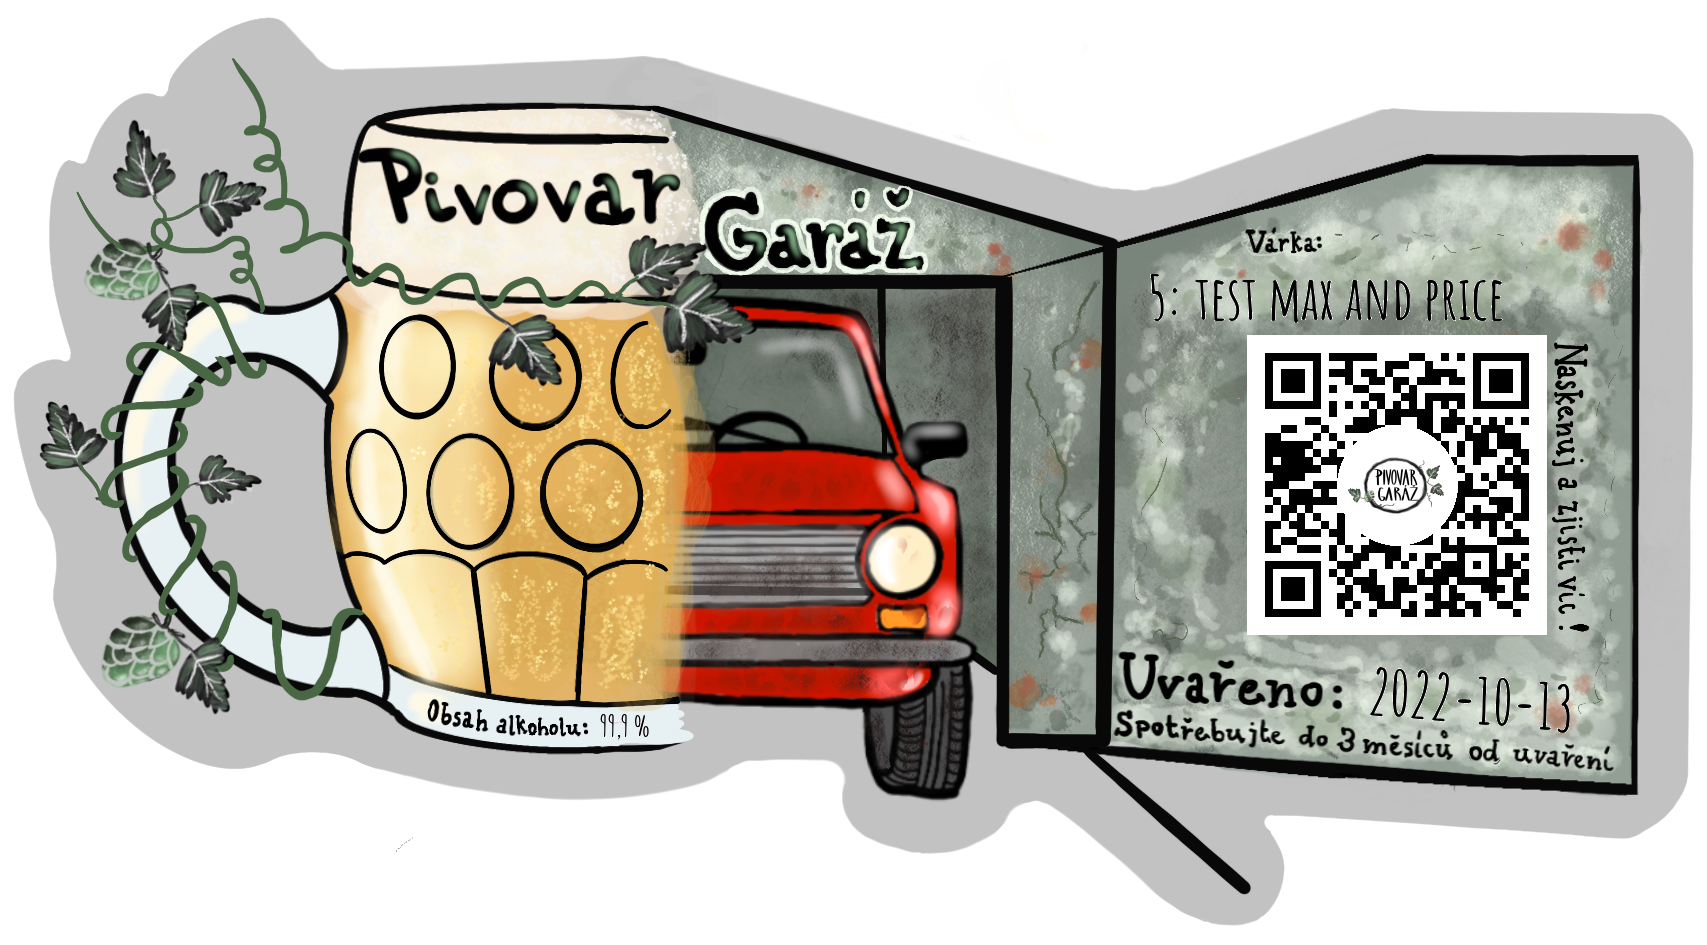
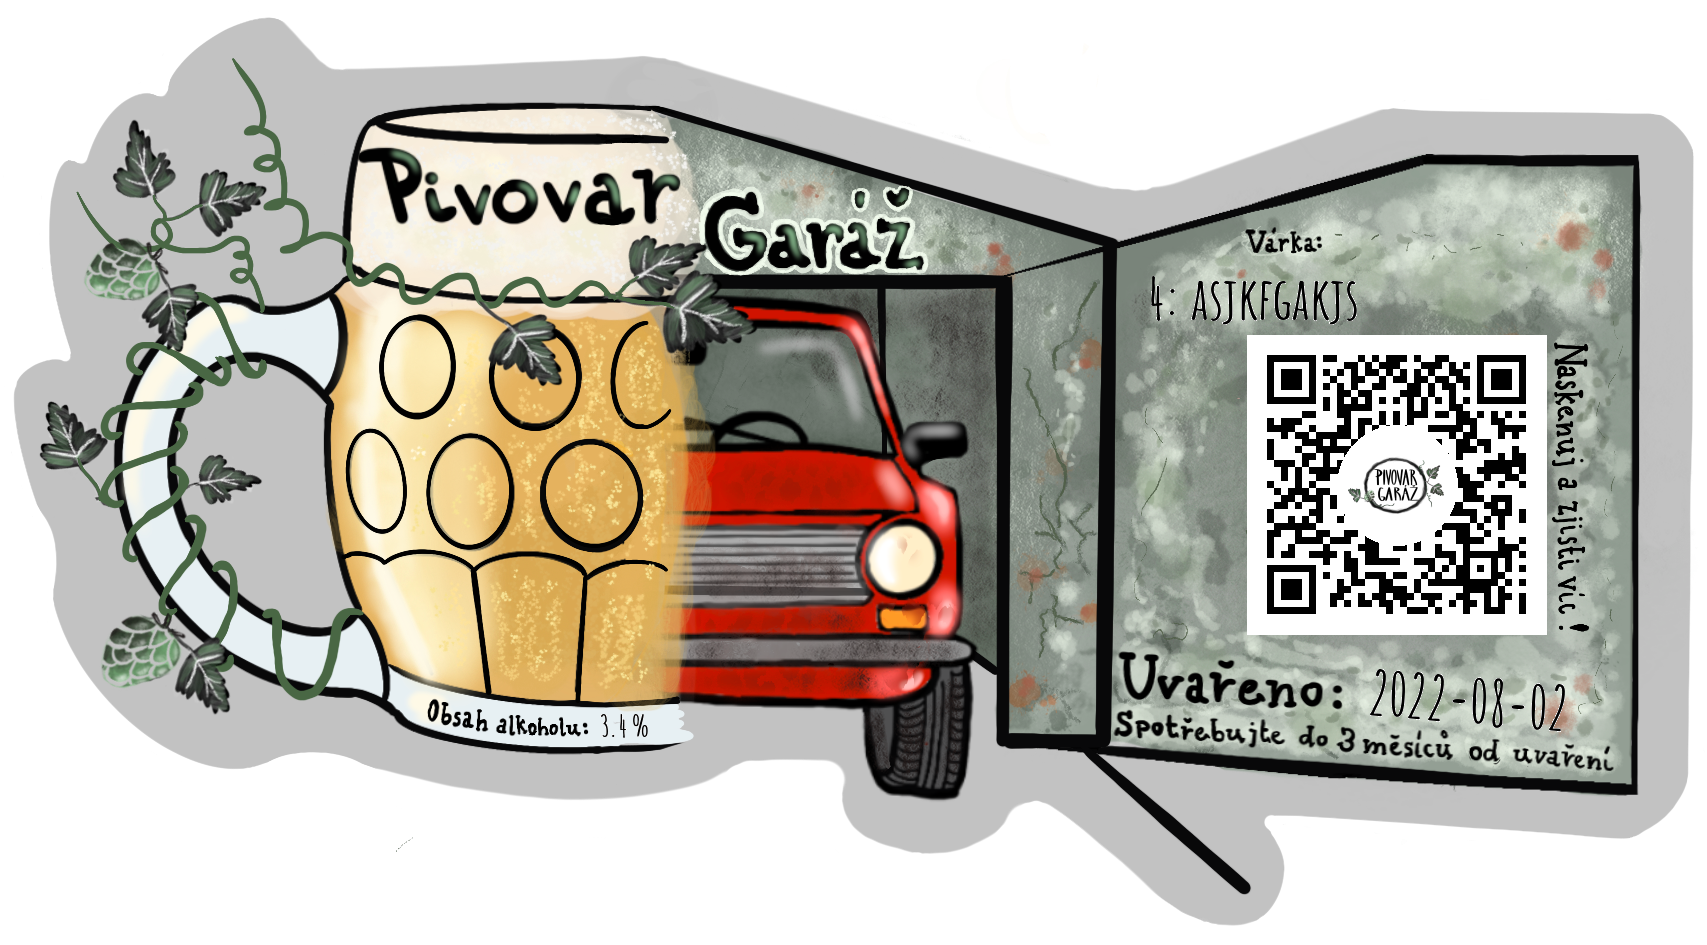
qr module #30

diff --git a/garage/qr/formQr.php b/garage/qr/formQr.php
@@ -24,11 +24,11 @@ if (!isset($_SESSION["currentUser"]) || !$_SESSION["currentUser"]["employee"]) {
             <select class="form-select" id="batch" name="batch">
                 <option selected></option>
                 <?php
-                $stmt = $link->prepare("SELECT id, label, created FROM batch;");
+                $stmt = $link->prepare("SELECT id, label, created, alcohol FROM batch;");
                 $stmt->execute();
                 if ($result = $stmt->get_result()) {
                     while ($row = $result->fetch_assoc()) {
-                        echo "<option value='" . $row["id"] . "' data-created='" . $row["created"] . "'>" . $row["label"] . "</option>";
+                        echo "<option value='" . $row["id"] . "' data-created='" . $row["created"] . "' data-alc=" . $row["alcohol"] . ">" . $row["label"] . "</option>";
                     }
                 }
                 ?>
@@ -47,6 +47,10 @@ if (!isset($_SESSION["currentUser"]) || !$_SESSION["currentUser"]["employee"]) {
             <input type="date" class="form-control" readonly id="created" name="created">
             <label for="created" class="form-label">Vytvořeno</label>
         </div>
+        <div class="form-floating mb-3">
+            <input type="text" class="form-control" readonly id="alc" name="alc">
+            <label for="alc" class="form-label">Podíl alkoholu</label>
+        </div>
         <button type="submit" class="btn btn-success"><i class="pe-2 bi bi-plus-circle"></i>Vytvořit etiketu</button>
     </form>
 </body>
@@ -59,6 +63,7 @@ if (!isset($_SESSION["currentUser"]) || !$_SESSION["currentUser"]["employee"]) {
             $("#label").val($(this).find(":selected").text());
             $("#id").val($(this).find(":selected").attr("value"));
             $("#created").val($(this).find(":selected").data("created"));
+            $("#alc").val($(this).find(":selected").data("alc") + " %");
         });
     });
 

diff --git a/garage/order/orderList.php b/garage/order/orderList.php
@@ -7,7 +7,7 @@ if (!isset($_SESSION["currentUser"]) || !$_SESSION["currentUser"]["employee"]) {
 
 $orders = [];
 $stmt = $link->prepare("SELECT bo.id, bo.thirds, bo.pints, bo.created, c.id AS customerId, c.mail, c.f_name, c.l_name, c.instagram, e.id AS empId, e.f_name AS empFName, e.l_name AS empLName,
-    b.id AS batchId, b.label, b.thirds AS batchThirds, b.pints AS batchPints, bs.label, bs.color, os.id AS statusOrderId, os.label AS statusOrderLabel, os.color AS statusOrderColor, b.third_price, b.pint_price
+    b.id AS batchId, b.label AS batchLabel, b.thirds AS batchThirds, b.pints AS batchPints, bs.label, bs.color, os.id AS statusOrderId, os.label AS statusOrderLabel, os.color AS statusOrderColor, b.third_price, b.pint_price
     FROM beer_order bo INNER JOIN user c ON bo.id_customer=c.id LEFT JOIN user e ON bo.id_employee=e.id INNER JOIN batch b ON bo.id_batch=b.id
     INNER JOIN status_batch bs ON b.id_status=bs.id INNER JOIN status_order os ON bo.id_status=os.id;");
 $stmt->execute();
@@ -29,7 +29,7 @@ if ($result = $stmt->get_result()) {
             ],
             "batch" => [
                 "id" => $row["batchId"],
-                "label" => $row["label"],
+                "label" => $row["batchLabel"],
                 "thirds" => $row["batchThirds"],
                 "pints" => $row["batchPints"],
                 "thirdPrice" => $row["third_price"],

diff --git a/garage/qr/generateScript.php b/garage/qr/generateScript.php
@@ -20,7 +20,7 @@ function drawText(GDImage $out, $text, $x, $y, $desiredWidth, $desiredHeight, $a
 	imagettftext($out, $defaultFontSize * $textScale, $angle, $x, $y, $txtColor, $fontPath, $text);
 }
 
-$data = 'http://labs.nticompassinc.com';
+$data = 'pivovargaraz.cz/lists/batchDetail.php?id=' . $_POST["id"];
 $size = 300;
 
 $qr = imagecreatefrompng('https://chart.googleapis.com/chart?cht=qr&chld=H|1&chs=' . $size . "x" . $size . '&chl=' . urlencode($data));
@@ -51,8 +51,7 @@ imagecopyresampled($out, $qr, $qrPosX, $qrPosY, 0, 0, $size, $size, $size, $size
 $label = $_POST["id"] . ": " . $_POST["label"];
 drawText($out, $label, $qrPosX - 100, $qrPosY - 15, 450, 65);
 drawText($out, $_POST["created"], $qrPosX + 120, $qrPosY + 380, 250, 65, angle: -5);
-// TODO volt
-drawText($out, "99,9 %", 600, 737, 50, 20);
+drawText($out, $_POST["alc"], 600, 737, 50, 20);
 
 imagepng($out, "sticker.png");
 ?>
